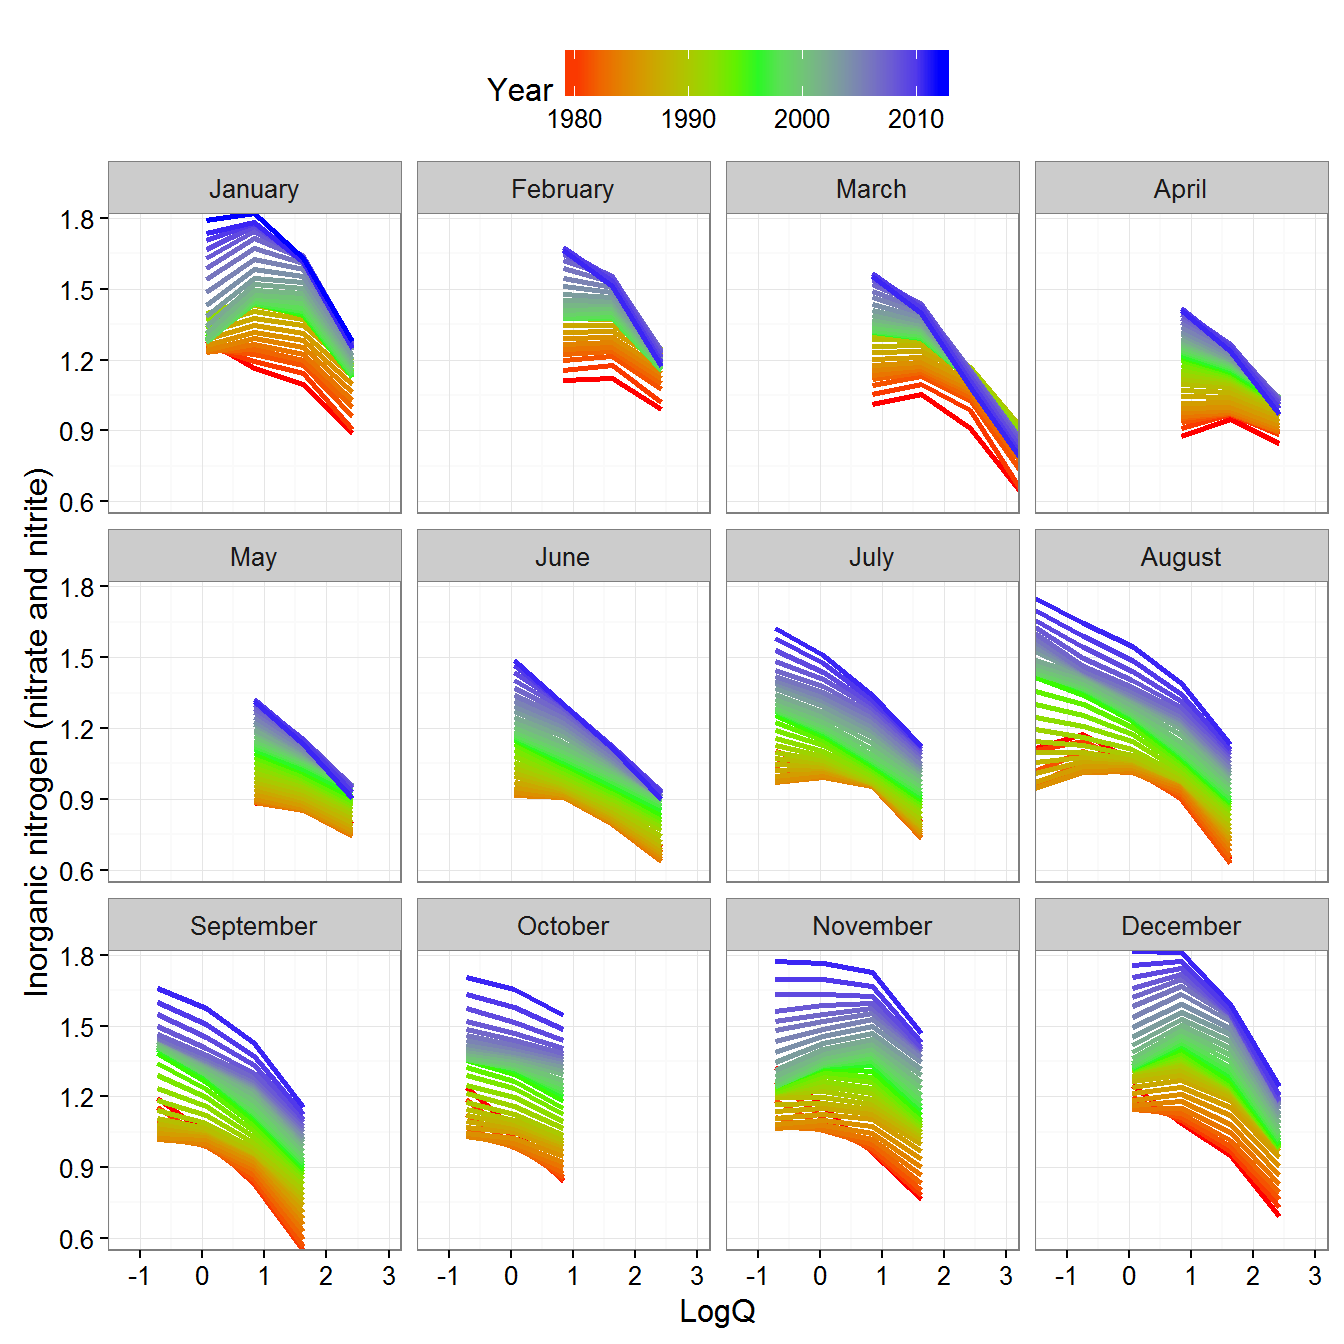
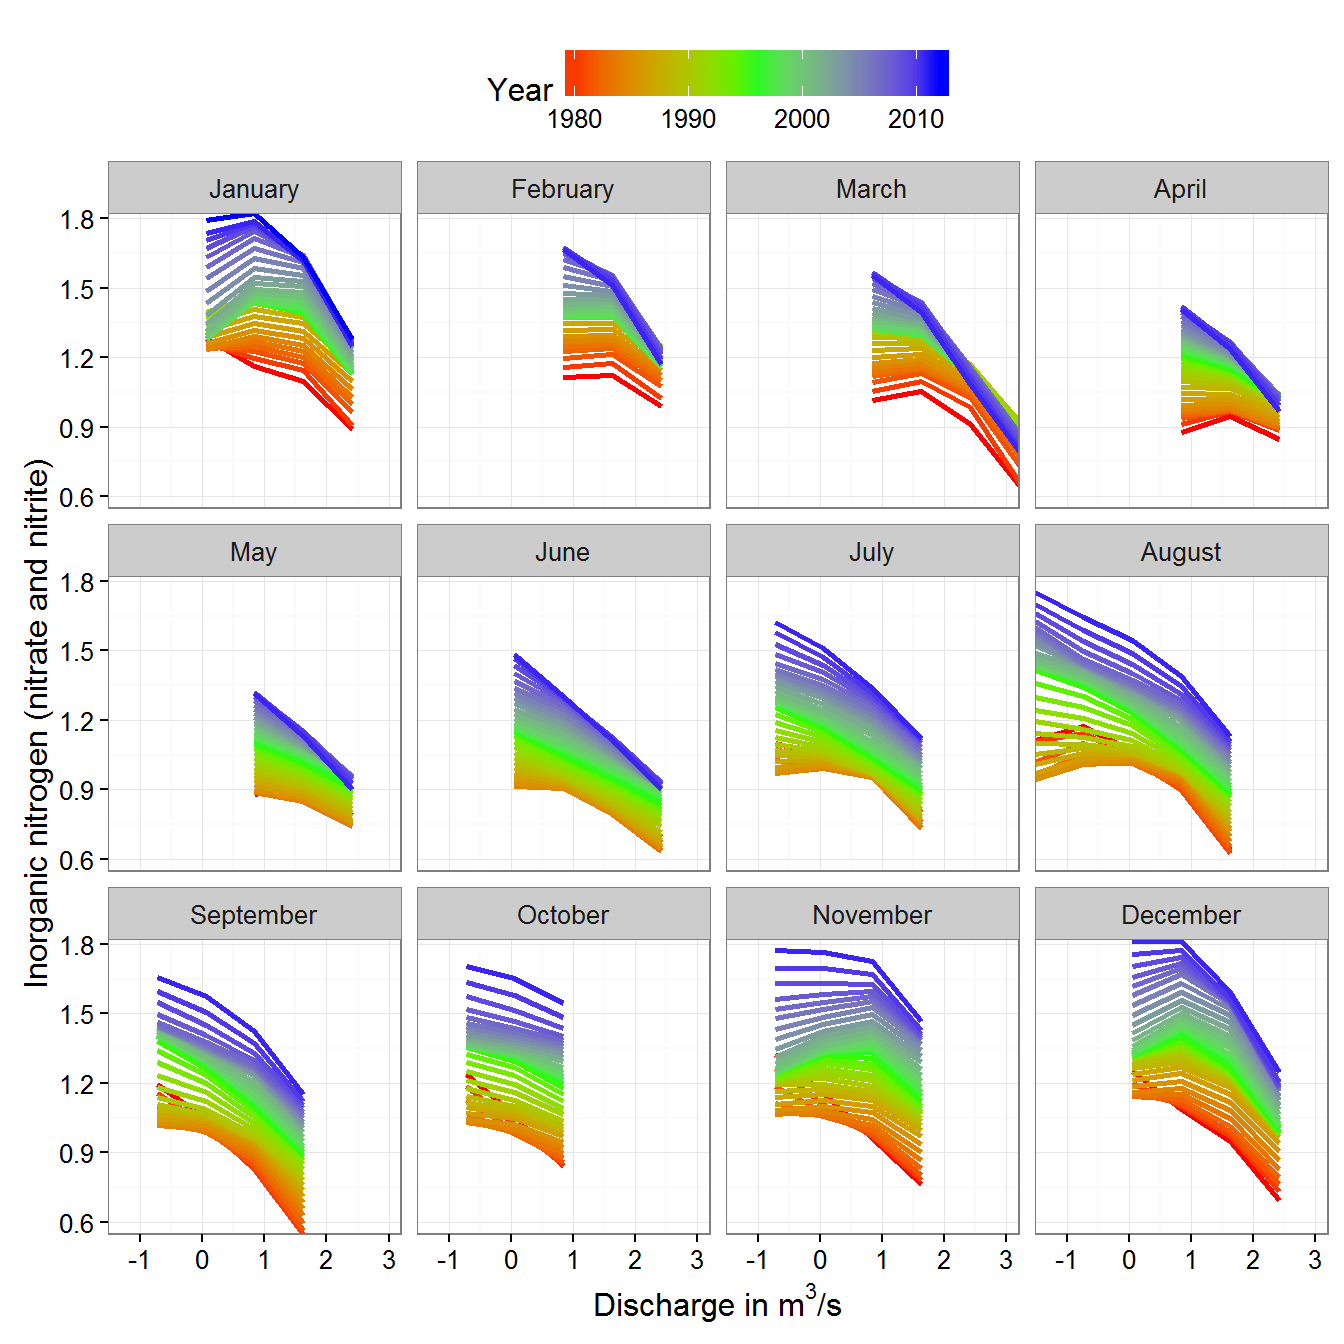
Building last pr

diff --git a/Hugo/content/plotFlowConc.md b/Hugo/content/plotFlowConc.md
@@ -76,7 +76,7 @@ library(tidyr)
 library(dplyr)
 
 
-plotFlowConc <- function(eList, month = c(1:12), years = NULL, col_vec = c('red', 'green', 'blue'), alpha = 1, size = 1,  allflo = FALSE, ncol = NULL, grids = TRUE, scales = NULL, pretty = TRUE, use_bw = TRUE, fac_nms = NULL){
+plotFlowConc <- function(eList, month = c(1:12), years = NULL, col_vec = c('red', 'green', 'blue'), ylabel = NULL, xlabel = NULL, alpha = 1, size = 1,  allflo = FALSE, ncol = NULL, grids = TRUE, scales = NULL, pretty = TRUE, use_bw = TRUE, fac_nms = NULL){
   
   localDaily <- getDaily(eList)
   localINFO <- getInfo(eList)
@@ -107,9 +107,10 @@ plotFlowConc <- function(eList, month = c(1:12), years = NULL, col_vec = c('red'
   to_plo <- data.frame(date = surfdts, year = surfyear, month = surfmos, day = surfday, t(ConcDay))
 
   # axis labels
-  ylabel <- localINFO$paramShortName
-  xlabel <- 'LogQ'
-  
+  if(is.null(ylabel))
+    ylabel <- localINFO$paramShortName
+  if(is.null(xlabel))
+    xlabel <- expression(paste('Discharge in ', m^3, '/s'))
   # reshape data frame, average by year, month for symmetry
   to_plo <- to_plo[to_plo$month %in% month, , drop = FALSE]
   names(to_plo)[grep('^X', names(to_plo))] <- paste('flo', flo_grd)
